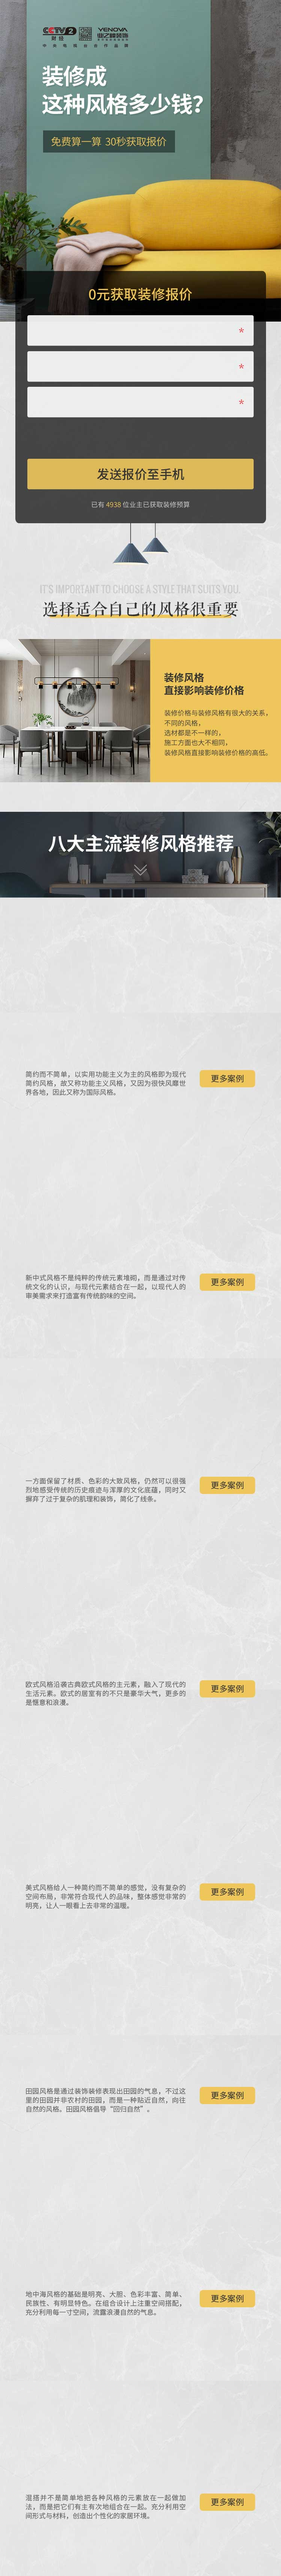
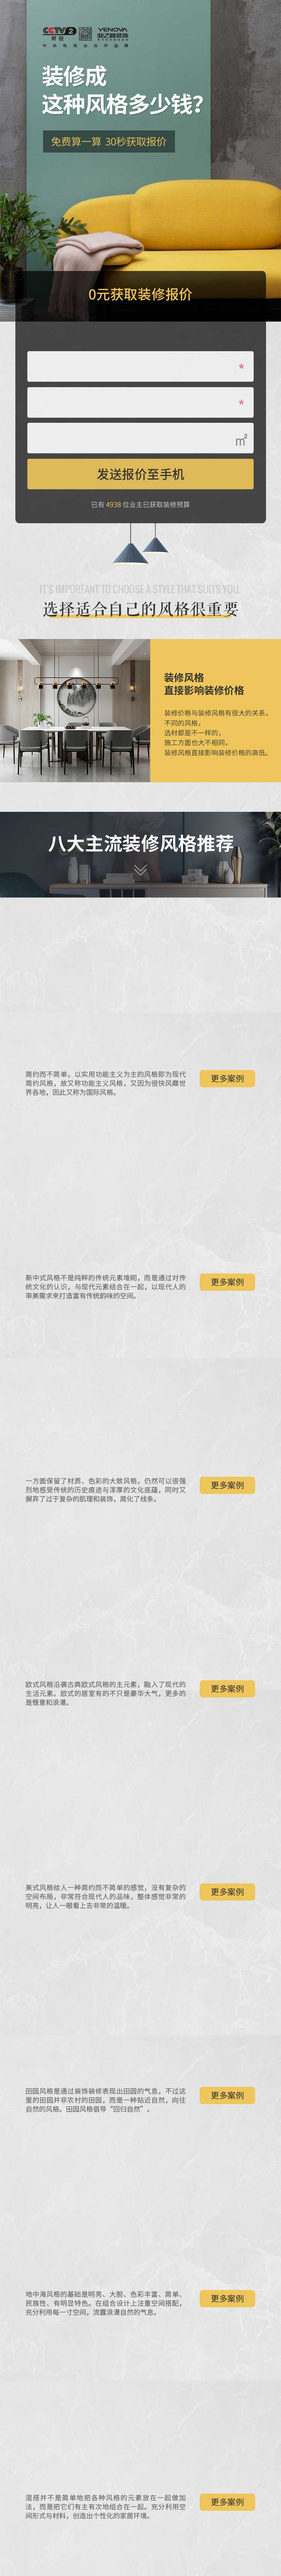
updata

Changed region(s): [[0.092, 0.1245, 0.92, 0.1868]]

diff --git a/src/fgh_zxfgbj_zfs6_pc.html b/src/fgh_zxfgbj_zfs6_pc.html
@@ -117,15 +117,6 @@
             <form class="form_post form_one">
                 <input name="channel" value="峰格汇_装修风格报价_ZFS6" type="hidden" />
                 <div class="req first">
-                    <input name="name" type="text" placeholder="您的称呼" />
-                </div>
-                <div class="req">
-                    <input name="phoneNumber" type="text" placeholder="您的联系方式" />
-                </div>
-                <div class="req">
-                    <input name="squareMeters" type="text" class="" placeholder="您的房屋面积">
-                </div>
-                <div class="req last">
                     <select>
                         <option value="现代简约">现代简约</option>
                         <option value="新古典">新古典</option>
@@ -138,6 +129,16 @@
                         <option value="港式">港式</option>
                     </select>
                 </div>
+                <div class="req">
+                    <input name="name" type="text" placeholder="您的称呼" />
+                </div>
+                <div class="req">
+                    <input name="phoneNumber" type="text" placeholder="您的联系方式" />
+                </div>
+                <div class="req last">
+                    <input name="squareMeters" type="text" class="" placeholder="您的房屋面积">
+                </div>
+                
                 <div class="submit"></div>
             </form>
             <!-- 结束 -->

diff --git a/src/fgh_zxfgbj_zfs6.html b/src/fgh_zxfgbj_zfs6.html
@@ -42,15 +42,6 @@
         <form class="form_post form_one">
             <input name="channel" value="峰格汇_装修风格报价_ZFS6" type="hidden" />
             <div class="req">
-                <input name="name" type="text" placeholder="您的称呼" />
-            </div>
-            <div class="req">
-                <input name="phoneNumber" type="text" placeholder="您的联系方式" />
-            </div>
-            <div class="req">
-                <input name="squareMeters" type="text" class="" placeholder="您的房屋面积">
-            </div>
-            <div class="req">
                 <select>
                     <option value="现代简约">现代简约</option>
                     <option value="新古典">新古典</option>
@@ -63,6 +54,16 @@
                     <option value="港式">港式</option>
                 </select>
             </div>
+            <div class="req">
+                <input name="name" type="text" placeholder="您的称呼" />
+            </div>
+            <div class="req">
+                <input name="phoneNumber" type="text" placeholder="您的联系方式" />
+            </div>
+            <div class="req">
+                <input name="squareMeters" type="text" class="" placeholder="您的房屋面积">
+            </div>
+            
             <div class="submit"></div>
         </form>
         <!-- 结束 -->

diff --git a/src/css/fgh_zxfgbj_zfs6_pc.css b/src/css/fgh_zxfgbj_zfs6_pc.css
@@ -1,3 +1,4 @@
+@charset "UTF-8";
 .Common_HeadTopics {
   width: 100%;
   height: 54px;
@@ -455,7 +456,12 @@
           border-radius: 3px;
           background: #ffffff;
           text-align: center;
-          font-size: 17px; }
+          font-size: 17px;
+          appearance: none;
+          -moz-appearance: none;
+          -webkit-appearance: none;
+          /*在选择框的最右侧中间显示小箭头图片 */
+          background: url("../img/pc_selsect_triangle.png") no-repeat scroll right center transparent; }
           .back .inner .form_post .req select option {
             color: #7e7b7b !important;
             outline: none !important;
@@ -464,7 +470,10 @@
             border-radius: 3px !important;
             background: #ffffff !important;
             text-align: center;
-            font-size: 17px; }
+            font-size: 17px;
+            appearance: none;
+            -moz-appearance: none;
+            -webkit-appearance: none; }
       .back .inner .form_post .submit {
         position: absolute;
         top: 163px;

diff --git a/src/sass/fgh_zxfgbj_zfs6_pc.sass b/src/sass/fgh_zxfgbj_zfs6_pc.sass
@@ -470,6 +470,11 @@
                     background: #ffffff
                     text-align: center
                     font-size: 17px
+                    appearance: none
+                    -moz-appearance: none
+                    -webkit-appearance: none
+                    /*在选择框的最右侧中间显示小箭头图片*/
+                    background: url("../img/pc_selsect_triangle.png") no-repeat scroll right center transparent
                     option
                         color: #7e7b7b !important
                         outline: none !important
@@ -479,6 +484,9 @@
                         background: #ffffff !important
                         text-align: center
                         font-size: 17px
+                        appearance: none
+                        -moz-appearance: none
+                        -webkit-appearance: none
             .submit
                 position: absolute
                 top: 163px

diff --git a/src/css/fgh_zxfgbj_zfs6.css b/src/css/fgh_zxfgbj_zfs6.css
@@ -1,3 +1,4 @@
+@charset "UTF-8";
 body {
   overflow: scroll !important; }
 
@@ -304,7 +305,13 @@ body {
         border: 0;
         border-radius: 3px;
         background: #ededed;
-        text-align: center; }
+        text-align: center;
+        appearance: none;
+        -moz-appearance: none;
+        -webkit-appearance: none;
+        /*在选择框的最右侧中间显示小箭头图片 */
+        background: url("../img/selsect_triangle.png") no-repeat scroll right center transparent;
+        background-size: 100% 100%; }
         .back .form_post .req select.last {
           margin-right: 0; }
       .back .form_post .req option {

diff --git a/src/sass/fgh_zxfgbj_zfs6.sass b/src/sass/fgh_zxfgbj_zfs6.sass
@@ -312,6 +312,12 @@ body
                 border-radius: 3px
                 background: #ededed
                 text-align: center
+                appearance: none
+                -moz-appearance: none
+                -webkit-appearance: none
+                /*在选择框的最右侧中间显示小箭头图片*/
+                background: url("../img/selsect_triangle.png") no-repeat scroll right center transparent
+                background-size: 100% 100%
                 &.last
                     margin-right: 0
             
